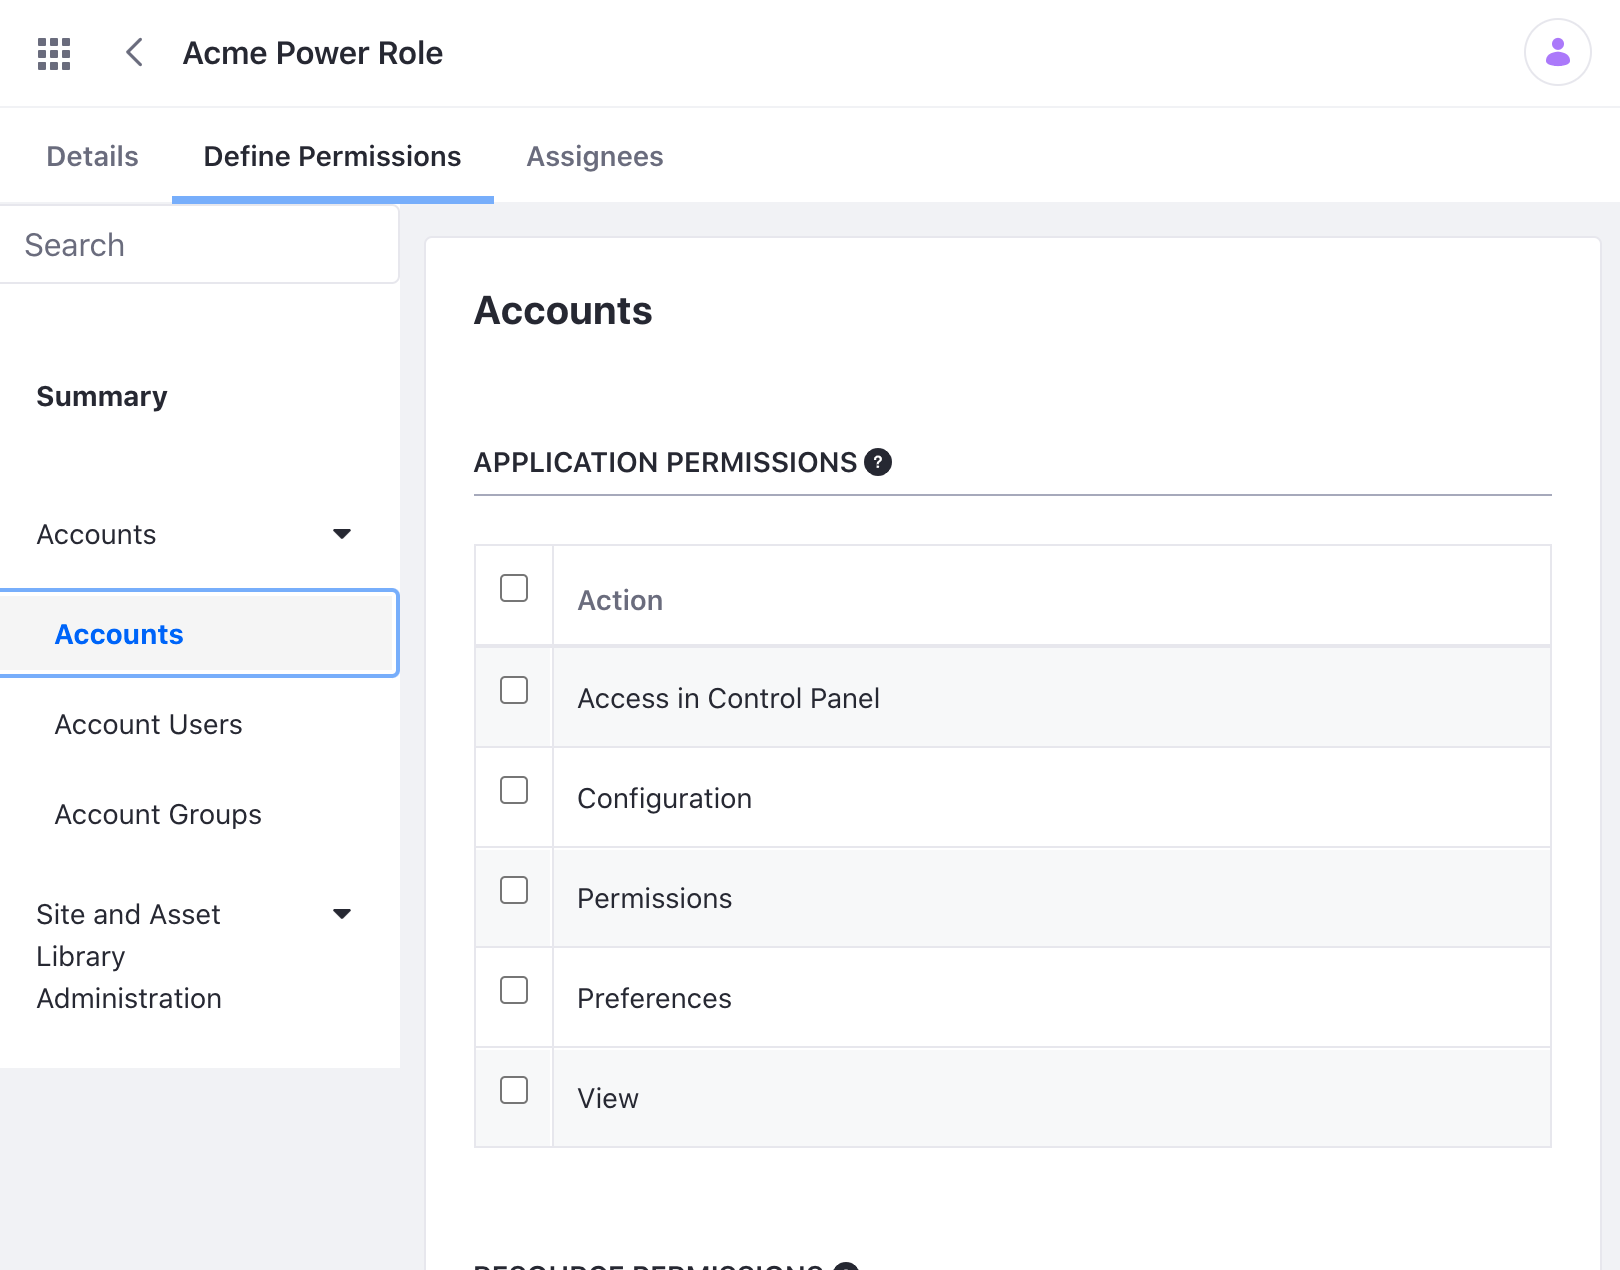
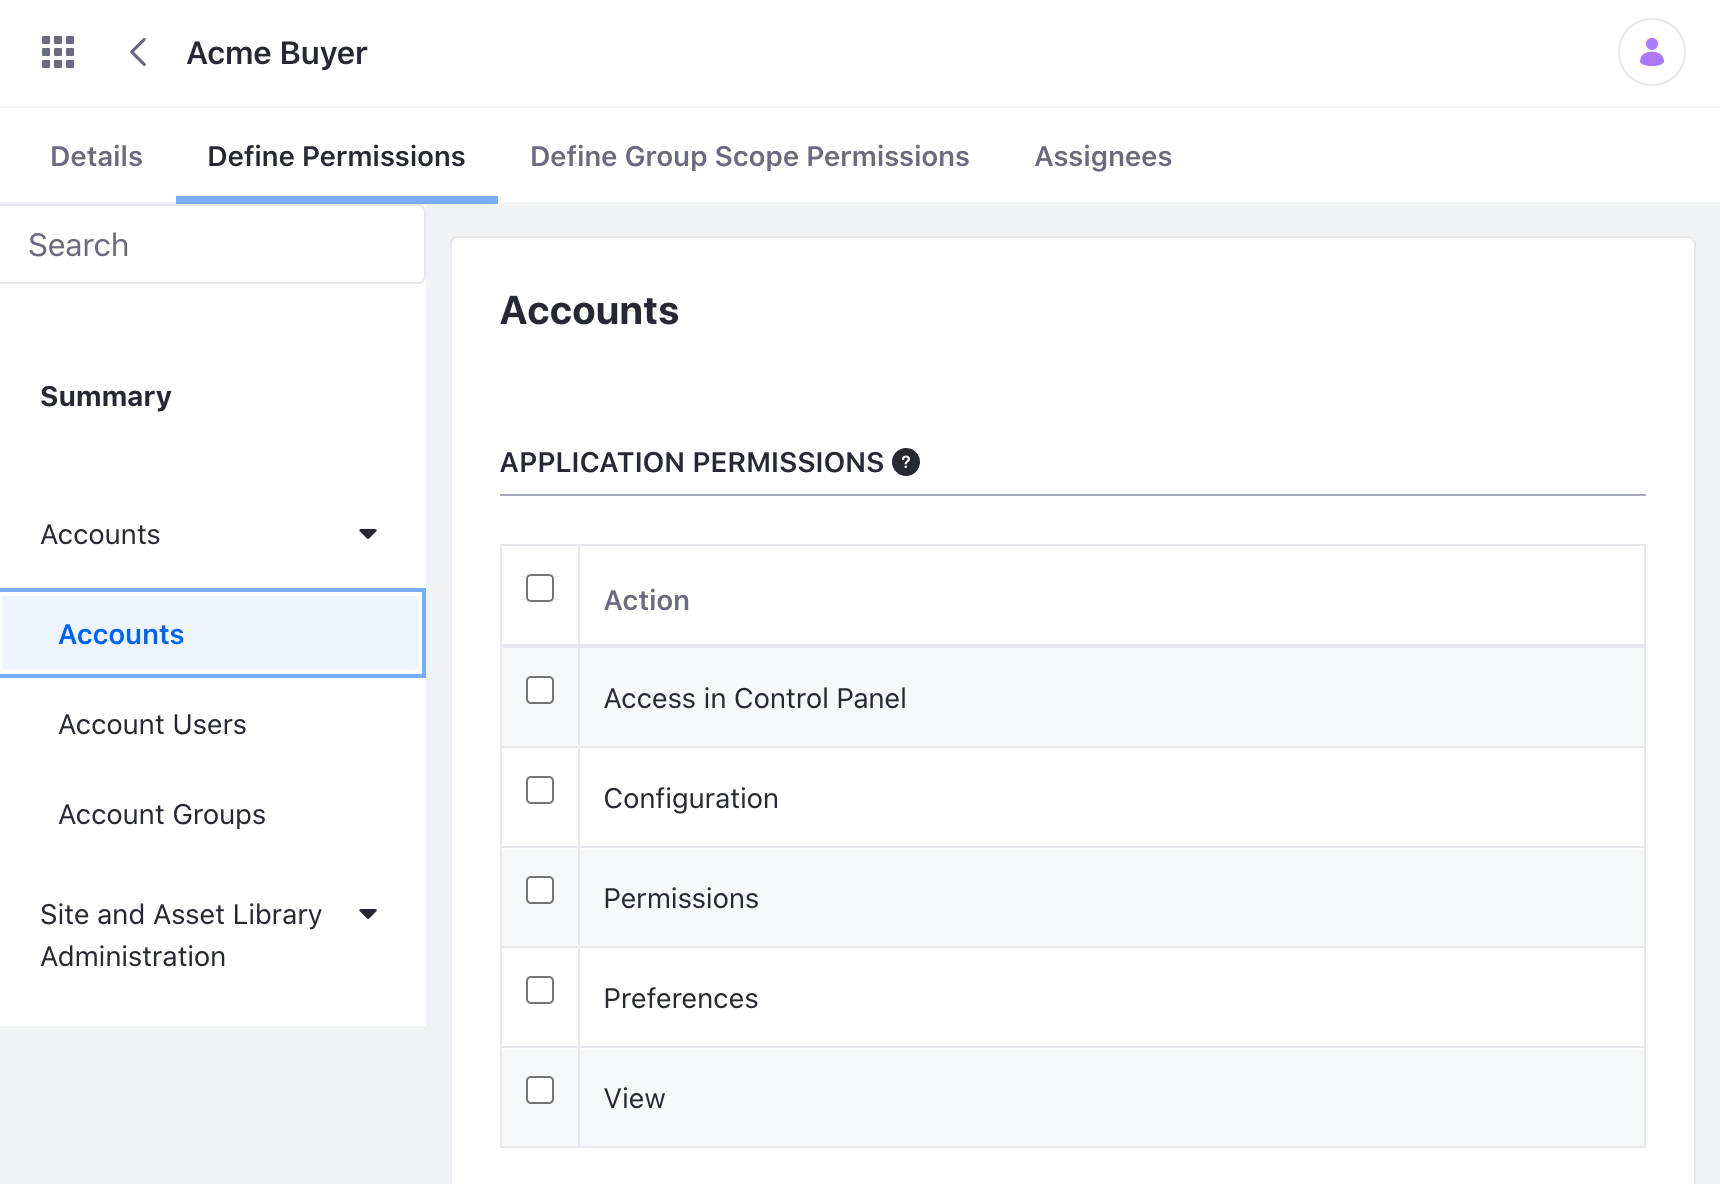
LRDOCS-9766 fixes 1

diff --git a/docs/dxp/latest/en/users-and-permissions/accounts/account-roles.md b/docs/dxp/latest/en/users-and-permissions/accounts/account-roles.md
@@ -1,6 +1,8 @@
 # Account Roles
 
-Like [regular roles](../roles-and-permissions/understanding-roles-and-permissions.md) in DXP, [Accounts](../accounts.md) have Account Roles that assign different permissions to different roles. Use Account Roles for your different Account Users based on your business needs.
+You can create different Account Roles and define specific permissions for each one. Then assign these roles to different [Account Users](./accounts/account-users.md) to grant appropriate access to their [Accounts](../accounts.md). 
+
+Note that Account Roles are assigned to a user for each specific Account. This offers great flexibility in managing users. For example, a user might have a "Buyer" role for Account "A" but not have that role for Account "B".
 
 ```{note}
 Accounts is a feature that is available in Liferay DXP 7.4 and above.
@@ -8,9 +10,9 @@ Accounts is a feature that is available in Liferay DXP 7.4 and above.
 
 ## View Account Roles
 
-There are two categories of Account Roles: instance wide roles and Account specific roles. Instance wide roles are Account Roles that are available across all Accounts in a DXP Instance. Account specific roles are roles that are created and managed for a specific Account.
+There are two types of Account Roles: Shared and Owned. Shared type Account Roles are roles that are available across all Accounts in a DXP Instance. Owned type Account Roles are roles that are created and managed within a specific Account.
 
-### View Instance Wide Account Roles
+### View Shared Account Roles
 
 To view an instance wide role, 
 
@@ -18,7 +20,7 @@ To view an instance wide role,
 
 1. Click the *Account Roles* tab and view the list of available roles.
 
-### View Account Specific Account Roles
+### View Owned Account Roles
 
 To view an Account specific role,
 
@@ -28,21 +30,23 @@ To view an Account specific role,
 
 ## Creating a New Account Role
 
-Make a choice to create an instance wide role or an account specific role.
+Make a choice to create an Shared Account Role or an Owned Account Role.
 
-### Creating and Assigning an Instance Wide Account Role
+### Creating and Assigning a Shared Account Role
 
-To create an instance wide role,
+To create a Shared Account Role,
 
 1. Open the Global Menu (![Global Menu](../../images/icon-applications-menu.png)). Navigate to *Control Panel* &rarr; *Roles*.
 
 1. Click the *Account Roles* tab. Click the Add icon (![Add icon](../../images/icon-add.png)).
 
-1. Give the new role a title and description. Click *Save* to create the role.
+1. Give the new role a title and description. Click *Save* to create the role. 
 
     ![Give the role a new title and description.](./account-roles/images/01.png)
 
-1. Click the *Define Permissions* tab at the top of the page. Select the different Account permissions to assign to this role. Click *Save* to save the permissions.
+1. Click the *Define Permissions* tab at the top of the page. Select what permissions the role has to act upon the resources owned by the account, including the account itself. For example, selecting the Update permissions would give the role the ability to change the Account's description. Click *Save* to save the permissions.
+
+1. Click the *Define Group Scope Permissions* tab. Select what permissions the role has to act on resources owned by other groups (i.e. sites, channels, asset libraries, etc.). Note that the permissions apply for the account that is [selected as the current account](./account-management-widget.html#using-the-acconut-management-widget).  
 
 1. To assign an account user to this role, navigate to *Applications* &rarr; *Accounts*. Select a specific account. 
 
@@ -52,18 +56,20 @@ To create an instance wide role,
 
 1. Click the Add icon (![Add icon](../../images/icon-add.png)) and assign a user to this role.
 
-### Creating and Assigning an Account Specific Account Role
+### Creating and Assigning an Owned Account Role
 
-To create an account specific role, 
+To create an Owned Account Role, 
 
 1. Open the Global Menu (![Global Menu](../../images/icon-applications-menu.png)). Navigate to *Applications* &rarr; *Accounts*.
 
-1. Select the specific account for the new role. Click the *Roles* tab and click the Add icon (![Add icon](../../images/icon-add.png)).
+1. Select the specific account in which to create the new role. Click the *Roles* tab and click the Add icon (![Add icon](../../images/icon-add.png)).
 
 1. Give the new role a title and description. Click *Save* to create the role.
 
-1. Click the *Define Permissions* tab at the top of the page. Select the different Account permissions to assign to this role. 
+1. Click the *Define Permissions* tab at the top of the page. Select what permissions the role has to act upon the resources owned by the account, including the account itself. For example, selecting the Update permissions would give the role the ability to change the Account's description. Click *Save* to save the permissions.
 
     ![Select the permissions to assign to this role.](./account-roles/images/03.png)
 
-1. To assign an account, click the *Assignees* tab. Click the Add icon (![Add icon](../../images/icon-add.png)) and assign a user to this role.
+1. Click the *Define Group Scope Permissions* tab. Select what permissions the role has to act on resources owned by other groups (i.e. sites, channels, asset libraries, etc.). Note that the permissions apply for the account that is [selected as the current account](./account-management-widget.html#using-the-acconut-management-widget).   
+
+2. To assign an account user, click the *Assignees* tab. Click the Add icon (![Add icon](../../images/icon-add.png)) and assign a user to this role.
